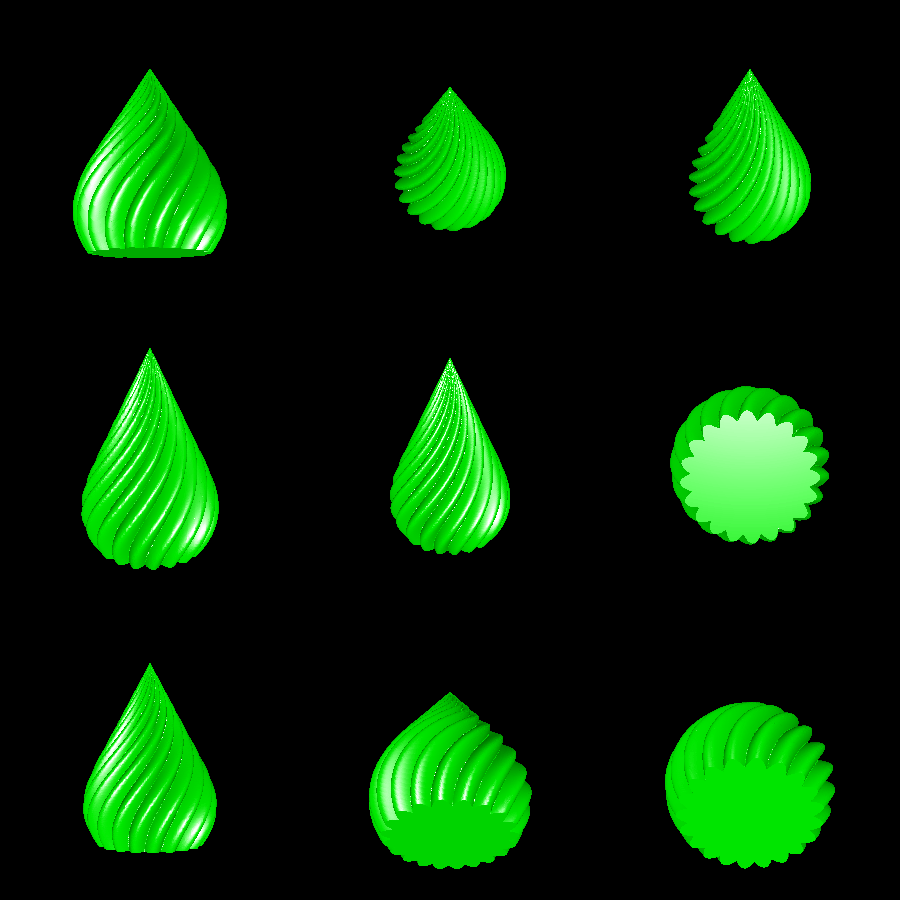
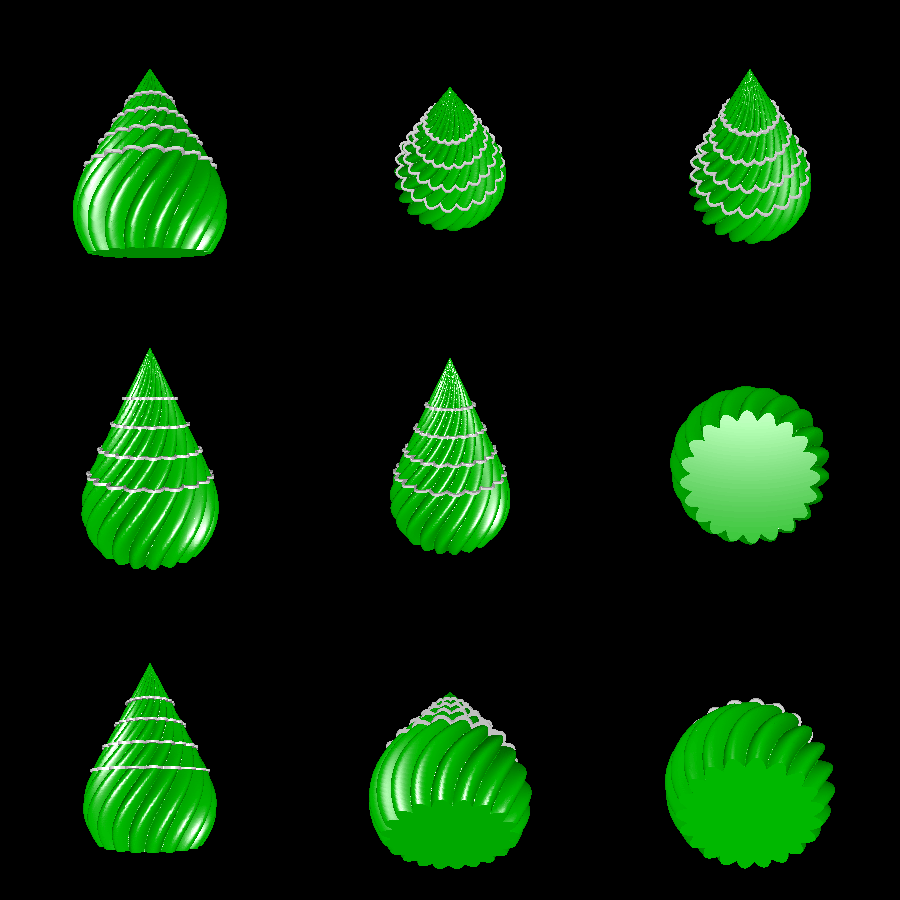
render tree with rings

diff --git a/examples/decoration/xmas_tree/main.go b/examples/decoration/xmas_tree/main.go
@@ -34,22 +34,34 @@ func main() {
 	)
 	log.Println("Creating main mesh...")
 	mesh := model3d.MarchingCubesSearch(solid, 0.03, 8)
-	log.Println("Rendering main mesh...")
-	colorFunc := func(c model3d.Coord3D, rc model3d.RayCollision) render3d.Color {
-		return render3d.NewColorRGB(0, 1.0, 0)
-	}
-	render3d.SaveRandomGrid("rendering.png", mesh, 3, 3, 300, colorFunc)
 	log.Println("Saving main mesh...")
 	mesh.Scale(FinalScale).SaveGroupedSTL("tree.stl")
 
 	log.Println("Creating separate ridges...")
+	ridgeMesh := model3d.NewMesh()
 	for i, z := range []float64{-2.0, -3.0, -4.0, -5.0} {
 		solid2d := RidgeSolid(z)
 		solid3d := model3d.ProfileSolid(solid2d, 0, RidgeThickness)
 		solid3d = model3d.TranslateSolid(solid3d, model3d.Z(z))
 		mesh := model3d.MarchingCubesSearch(solid3d, 0.02, 8)
 		mesh.Scale(FinalScale).SaveGroupedSTL(fmt.Sprintf("ridge_%d.stl", i))
+		ridgeMesh.AddMesh(mesh)
 	}
+
+	log.Println("Rendering full model...")
+	ridgeSDF := model3d.MeshToSDF(ridgeMesh)
+	treeSDF := model3d.MeshToSDF(mesh)
+	colorFunc := func(c model3d.Coord3D, rc model3d.RayCollision) render3d.Color {
+		ridgeDist := ridgeSDF.SDF(c)
+		treeDist := treeSDF.SDF(c)
+		if treeDist > ridgeDist {
+			return render3d.NewColorRGB(0, 0.8, 0)
+		} else {
+			return render3d.NewColor(0.8)
+		}
+	}
+	mesh.AddMesh(ridgeMesh)
+	render3d.SaveRandomGrid("rendering.png", mesh, 3, 3, 300, colorFunc)
 }
 
 func OuterRadiusFunc() func(float64) float64 {
